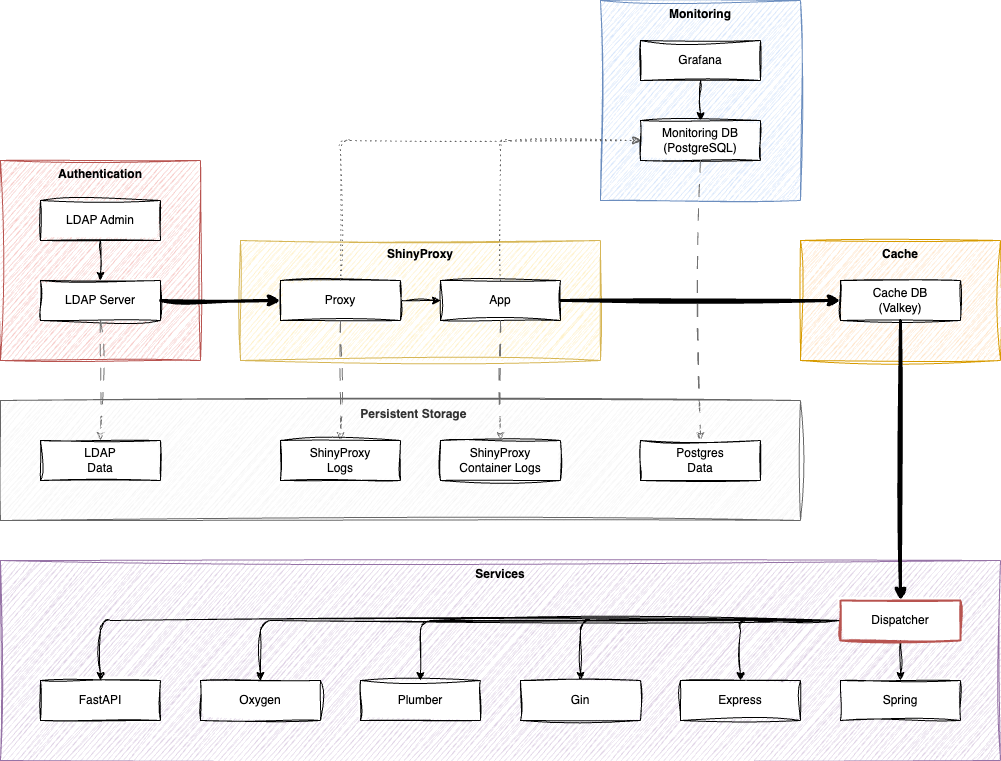
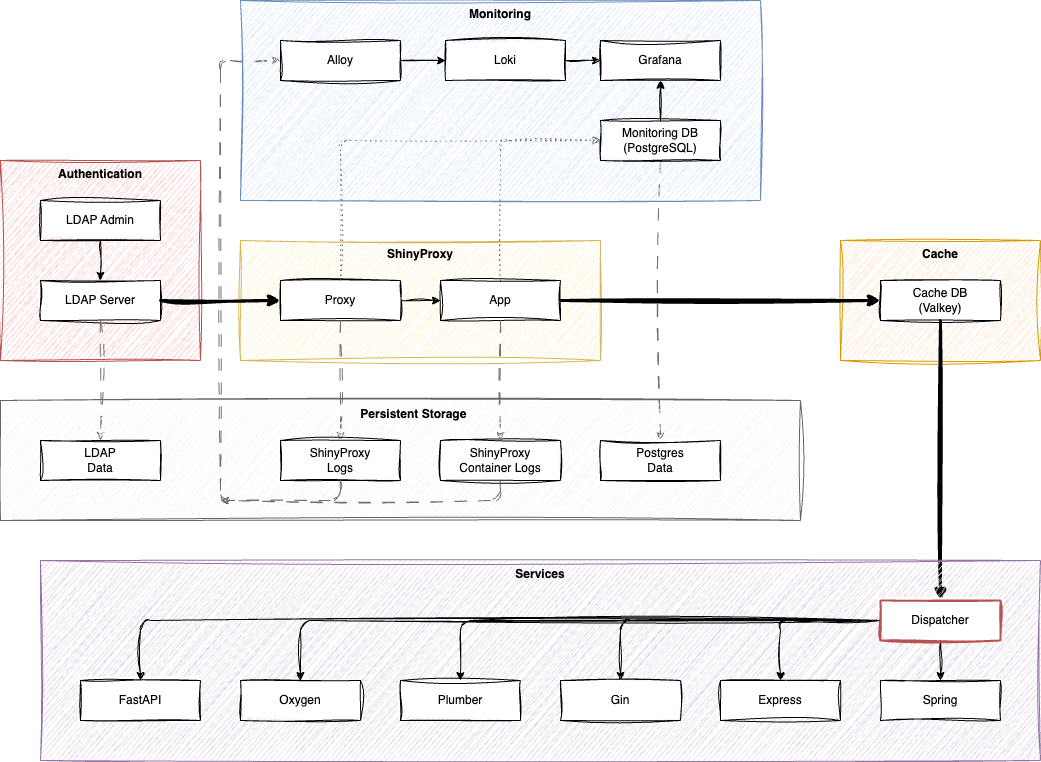
[root] refactor: improve diagram positioning

diff --git a/README.md b/README.md
@@ -31,7 +31,7 @@ kinds of data flow:
 - *Thick lines* are the main inter-domain flow of logic
 - *Thin lines* inside the domain boundaries represent intra-domain communication
 - *Dotted lines* are reserved for telemetry and monitoring flows
-- *Dashed lines* represent file system dependency (docker volumes)
+- *Dashed lines* represent filesystem usage (via docker volumes)
 
 ## About the Repository
 
